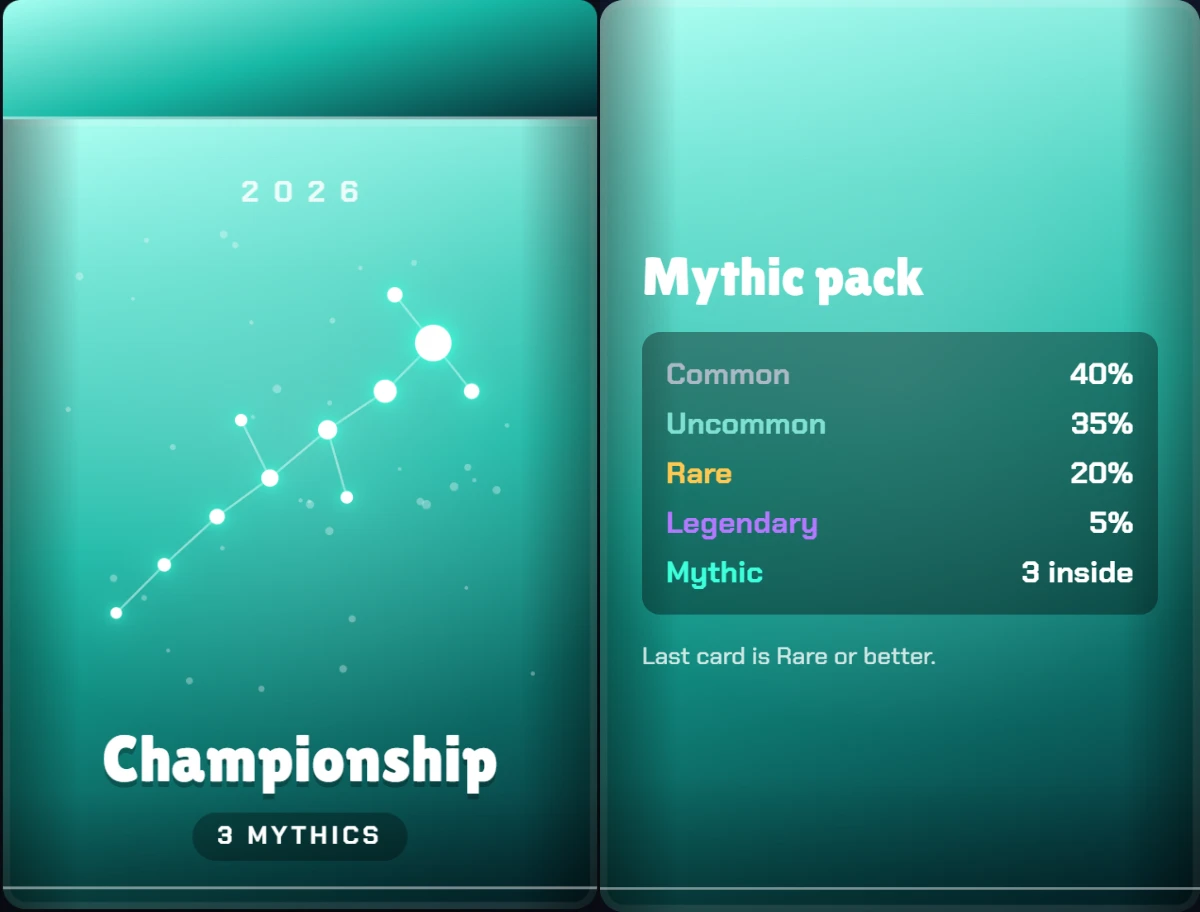
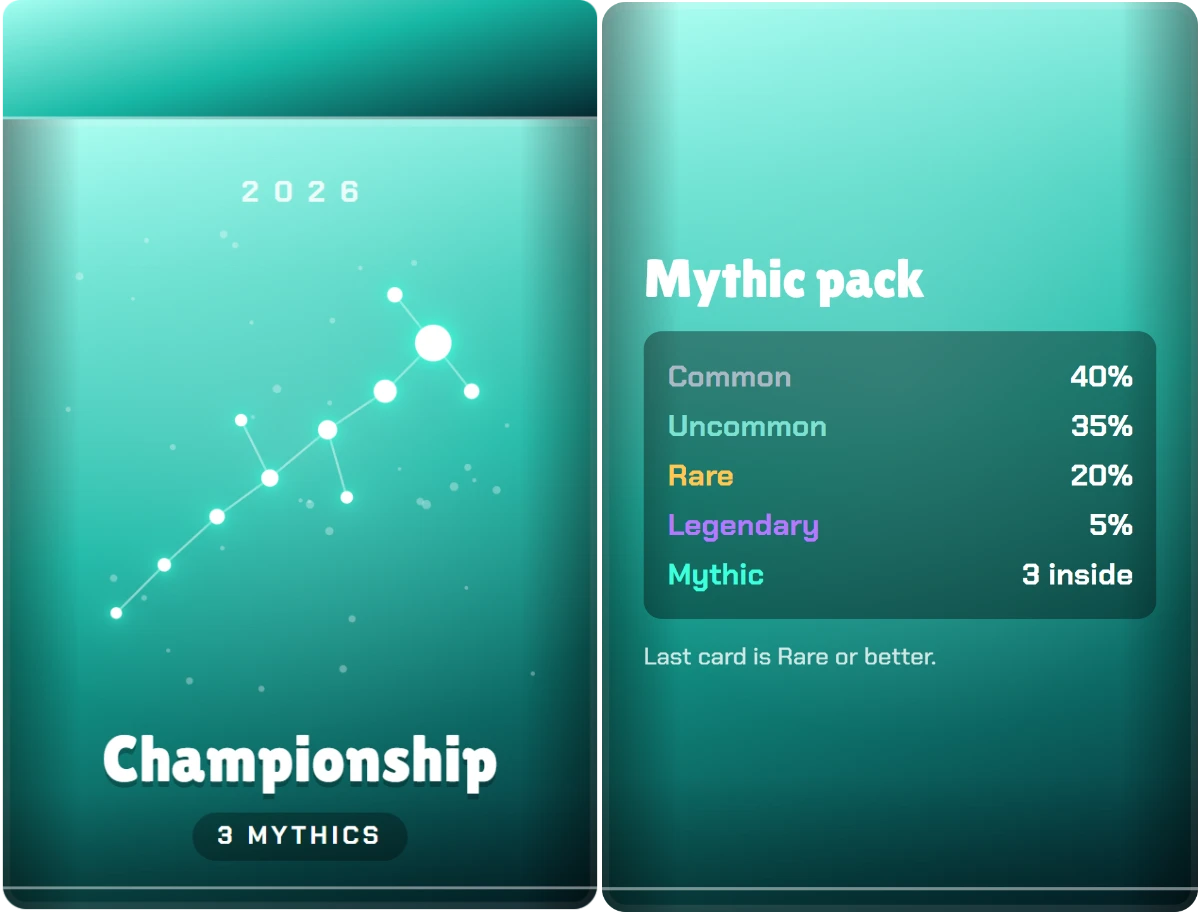
0.10.1: the light, solid packs, clean corners and tags on top
- The light from the tear (and the flip bursts) were drawn as color with no alpha, which a see-through canvas may not
  show (Safari drops color brighter than its alpha); now written with alpha at least as bright, and stronger.
- The WebGL pack was two pictures with layers between them below the strip, and the strip was drawn from both sides,
  so turned sideways it came apart and the strip stuck out from behind. It's now a pouch with one rounded wall all the
  way round; the strip shows only from the front; the back's inside shows through the opening once it's torn.
- Square corners: the pack pictures had the page's background (and the pack's outer shadow) in the corners outside
  the rounded edge, and the card pictures had the cards' outer shadows there; the pack tool now hides everything else
  and keeps only inset shadows, and card pictures keep only inset shadows (WebGL draws the shadows). This was also the
  foggy edge on glowing cards.
- NEW and COPY tags in the pull belonged to their cards, so the next card covered them; they're now one layer over
  the whole hand, and their pictures are made while the pack is in hand so they're drawn on top at once. Cards that
  have left the page no longer scramble the painting order.
- Closing the opening no longer throws on the pack's walls (a mesh with two materials).

diff --git a/web/src/site/gl/pack.ts b/web/src/site/gl/pack.ts
@@ -13,8 +13,8 @@
 // Only loaded when a pack is opened (open.tsx imports it on demand), and only used where WebGL works and motion isn't
 // reduced. It draws only while something moves: nothing runs while the pack sits in your hand.
 import {
-  BufferAttribute, BufferGeometry, CanvasTexture, CustomBlending, DoubleSide, Group, LinearFilter, Mesh, OneFactor, PerspectiveCamera,
-  PlaneGeometry, Points, Scene, ShaderMaterial, type Texture, TextureLoader, WebGLRenderer,
+  BufferAttribute, BufferGeometry, CanvasTexture, CustomBlending, DoubleSide, ExtrudeGeometry, Group, LinearFilter, Mesh, OneFactor,
+  PerspectiveCamera, PlaneGeometry, Points, Scene, Shape, ShaderMaterial, type Texture, TextureLoader, WebGLRenderer,
 } from "three";
 import { wrapper } from "../rip";
 import { snap } from "./faces";
@@ -35,6 +35,9 @@ const rgb = (hex: string): [number, number, number] => {
   return [((n >> 16) & 255) / 255, ((n >> 8) & 255) / 255, (n & 255) / 255];
 };
 const vec3 = (c: [number, number, number]) => `vec3(${c.map((x) => x.toFixed(4)).join(", ")})`;
+/** Light added over what's behind it. Written with alpha at least as bright as the color, the form a see-through
+    canvas must hold for every browser to show it (Safari drops color brighter than its alpha). */
+const LIGHT = `vec4(c, max(c.r, max(c.g, c.b)))`;
 
 /** CSS cubic-bezier timing, so the WebGL pack moves like the CSS one did. */
 function bezier(x1: number, y1: number, x2: number, y2: number) {
@@ -134,14 +137,15 @@ export function createPackGL(canvas: HTMLCanvasElement, host: HTMLElement): Pack
     pw: { value: 1 }, ph: { value: 1 }, edge: { value: [0, 0, 0] }, hint: { value: 0 },
   };
   // The faces: the picture of the front (left half) or the back (right half), with the pack's moving sheen on the front.
-  const face = (u0: number, v0: number, v1: number, sheen: boolean) => new ShaderMaterial({
-    uniforms: u, transparent: true,
+  const face = (u0: number, v0: number, v1: number, sheen: boolean, inside = false) => new ShaderMaterial({
+    uniforms: u, transparent: true, ...(inside && { side: DoubleSide }),
     vertexShader: VERT,
     fragmentShader: `uniform sampler2D map; uniform float fade; uniform float sheen; uniform float pw; uniform float ph; varying vec2 vUv;
       void main() {
         vec2 t = vec2(${u0.toFixed(2)} + vUv.x * 0.5, ${v0.toFixed(4)} + vUv.y * ${(v1 - v0).toFixed(4)});
         vec4 c = texture2D(map, t);
         if (c.a < 0.02) discard;
+        ${inside ? `if (!gl_FrontFacing) { gl_FragColor = vec4(vec3(0.44, 0.48, 0.56), c.a * fade); return; }` : ""}
         ${sheen ? `// .op-psheen: a soft band at 105deg, 220% of the pack wide, sliding as the pack turns.
         vec2 p = vec2(vUv.x, t.y);
         float d = (p.x - 0.5) * pw + (p.y - 0.5) * ph * 0.268 - sheen * pw * 2.2 / 100.0;
@@ -150,23 +154,19 @@ export function createPackGL(canvas: HTMLCanvasElement, host: HTMLElement): Pack
       }`,
   });
   const body = new Mesh(new PlaneGeometry(1, 1), face(0, 0, 1 - SEAM, true));
-  const back = new Mesh(new PlaneGeometry(1, 1), face(0.5, 0, 1, false));
+  const back = new Mesh(new PlaneGeometry(1, 1), face(0.5, 0, 1, false, true));
   back.rotation.y = Math.PI;
-  // Edges: layers of the wrapper's dark color between the faces, below the strip (like .op-pedge).
-  const edgeMat = new ShaderMaterial({
-    uniforms: u, transparent: true, vertexShader: VERT,
-    fragmentShader: `uniform vec3 edge; uniform float fade; uniform float pw; uniform float ph; varying vec2 vUv;
-      void main() {
-        // Square at the top, rounded at the bottom corners like the pack.
-        vec2 p = vec2((vUv.x - 0.5) * pw * 0.992, vUv.y * ph * 0.872);
-        float r = pw * 0.04;
-        vec2 q = vec2(abs(p.x) - (pw * 0.496 - r), r - p.y);
-        if (q.x > 0.0 && q.y > 0.0 && length(q) > r) discard;
-        gl_FragColor = vec4(edge, fade);
-      }`,
+  // Its sides: one rounded wall all the way round between the two faces, in the wrapper's dark color, lit a little by
+  // which way it faces, so the pack is a solid pouch from any angle. Only the walls: the faces are the pictures.
+  const wallMat = new ShaderMaterial({
+    uniforms: u, transparent: true,
+    vertexShader: `varying float vLit; void main() { vec3 n = normalize(normalMatrix * normal); vLit = 0.55 + 0.45 * abs(n.z) + 0.25 * max(0.0, n.y);
+      gl_Position = projectionMatrix * modelViewMatrix * vec4(position, 1.0); }`,
+    fragmentShader: `uniform vec3 edge; uniform float fade; varying float vLit; void main() { gl_FragColor = vec4(edge * vLit + 0.04, fade); }`,
   });
-  const edges = Array.from({ length: 7 }, () => new Mesh(new PlaneGeometry(1, 1), edgeMat));
-  // The strip: a band of points along the seam, bent each frame from the wrapper's chain. Its inside is foil-grey.
+  const noCaps = new ShaderMaterial({ visible: false });
+  const walls = new Mesh(new BufferGeometry(), [noCaps, wallMat]);
+  // The strip: a band of points along the seam, bent each frame from the wrapper's chain.
   const R = 3, wrap = wrapper(false), n = wrap.n;
   const sGeo = new BufferGeometry(), sPos = new Float32Array((n + 1) * (R + 1) * 3), sUv = new Float32Array((n + 1) * (R + 1) * 2), sShade = new Float32Array((n + 1) * (R + 1)), sFold = new Float32Array((n + 1) * (R + 1));
   const idx: number[] = [];
@@ -182,15 +182,15 @@ export function createPackGL(canvas: HTMLCanvasElement, host: HTMLElement): Pack
   sGeo.setIndex(idx);
   const sfade = { value: 1 };
   const strip = new Mesh(sGeo, new ShaderMaterial({
-    uniforms: { ...u, sfade }, transparent: true, side: DoubleSide,
+    uniforms: { ...u, sfade }, transparent: true,
     vertexShader: `attribute float shade; attribute float fold; varying vec2 vUv; varying float vShade; varying float vFold;
       void main() { vUv = uv; vShade = shade; vFold = fold; gl_Position = projectionMatrix * modelViewMatrix * vec4(position, 1.0); }`,
-    // Foil: where the peeled strip turns to the light it glints, broken up by its crinkles; inside it's bare metal.
+    // Foil: where the peeled strip turns to the light it glints, broken up by its crinkles.
     fragmentShader: `uniform sampler2D map; uniform float fade; uniform float sfade; varying vec2 vUv; varying float vShade; varying float vFold;
       void main() {
         vec4 c = texture2D(map, vUv);
         if (c.a < 0.02) discard;
-        vec3 col = gl_FrontFacing ? c.rgb * vShade : vec3(0.72, 0.78, 0.86) * vShade;
+        vec3 col = c.rgb * vShade;
         float grain = 0.55 + 0.45 * fract(sin(floor(vUv.x * 180.0) * 91.3 + floor(vUv.y * 40.0) * 17.1) * 437.5);
         float glint = pow(max(0.0, cos(vFold - 0.6)), 16.0) * step(0.05, vFold);
         col += vec3(0.95, 0.98, 1.0) * glint * grain * 0.6;
@@ -209,12 +209,13 @@ export function createPackGL(canvas: HTMLCanvasElement, host: HTMLElement): Pack
         float x = vUv.x * pw * 1.2 - pw * 0.1, y = vUv.y * ph * 0.42;
         float open = smoothstep(x0 - 4.0, x0 + 8.0, x) * (1.0 - smoothstep(x1 - 8.0, x1 + 4.0, x)) * smoothstep(-6.0, 6.0, x) * (1.0 - smoothstep(pw - 6.0, pw + 6.0, x));
         float v = vUv.y;
-        float rise = pow(1.0 - min(1.0, v / 0.72), 2.2) * 0.9;
+        float rise = pow(1.0 - min(1.0, v / 0.8), 1.8) * 1.1;
         float lean = (x - (x0 + x1) * 0.5) * 0.25 * v;
-        float rays = pow(0.5 + 0.5 * cos((x - lean) / 26.0 * 6.2832), 5.0) * (1.0 - v) * 0.45;
+        float rays = pow(0.5 + 0.5 * cos((x - lean) / 26.0 * 6.2832), 5.0) * (1.0 - v) * 0.7;
         float edge = exp(-y * 0.45) * 1.5;
-        float a = clamp(light * fade * open * (rise + rays + edge), 0.0, 1.6);
-        gl_FragColor = vec4(color * a, 0.0);
+        float a = clamp(light * fade * open * (rise + rays + edge), 0.0, 2.0);
+        vec3 c = color * a;
+        gl_FragColor = ${LIGHT};
       }`,
   }));
   // "Cut here": the dashed line and scissors of .op-cutzone, drawn once on a canvas.
@@ -236,7 +237,7 @@ export function createPackGL(canvas: HTMLCanvasElement, host: HTMLElement): Pack
         gl_FragColor = vec4(0.0, 0.0, 0.0, 0.55 * fade * (1.0 - smoothstep(-25.0, 25.0, d)));
       }`,
   }));
-  turner.add(body, back, ...edges, glow, stripBox, hintMesh);
+  turner.add(body, back, walls, glow, stripBox, hintMesh);
   root.add(shadow);
   shadow.renderOrder = -1;
   glow.renderOrder = 2;
@@ -252,7 +253,12 @@ export function createPackGL(canvas: HTMLCanvasElement, host: HTMLElement): Pack
     const T = PW * PTH, HB = PH * (1 - SEAM), seamY = PH / 2 - PH * SEAM;
     body.scale.set(PW, HB, 1); body.position.set(0, -PH / 2 + HB / 2, T);
     back.scale.set(PW, PH, 1); back.position.set(0, 0, -T);
-    edges.forEach((e, i) => { e.scale.set(PW * 0.992, PH * 0.872, 1); e.position.set(0, -PH / 2 + PH * 0.437, (T * (i - 3)) / 4); });
+    const cr = PW * 0.035, ex = PW / 2 - 0.5, ey = PH / 2 - 0.5, sh = new Shape();
+    sh.moveTo(-ex + cr, -ey); sh.lineTo(ex - cr, -ey); sh.quadraticCurveTo(ex, -ey, ex, -ey + cr); sh.lineTo(ex, ey - cr); sh.quadraticCurveTo(ex, ey, ex - cr, ey);
+    sh.lineTo(-ex + cr, ey); sh.quadraticCurveTo(-ex, ey, -ex, ey - cr); sh.lineTo(-ex, -ey + cr); sh.quadraticCurveTo(-ex, -ey, -ex + cr, -ey);
+    walls.geometry.dispose();
+    walls.geometry = new ExtrudeGeometry(sh, { depth: T * 1.96, bevelEnabled: false, curveSegments: 6 });
+    walls.position.set(0, 0, -T * 0.98);
     glow.scale.set(PW * 1.2, PH * 0.42, 1); glow.position.set(0, seamY + PH * 0.21, 0);
     shadow.scale.set(PW + 100, PH + 100, 1); shadow.position.set(0, -24 - (PH * SEAM) / 2, -T * 2);
     // The hint, at the CSS's place: 6% in from each side, from 7% to 17% down.
@@ -322,7 +328,7 @@ export function createPackGL(canvas: HTMLCanvasElement, host: HTMLElement): Pack
     uniforms: { k: { value: 0 } }, transparent: true, depthWrite: false, depthTest: false, blending: CustomBlending, blendSrc: OneFactor, blendDst: OneFactor,
     vertexShader: VERT,
     fragmentShader: `uniform float k; varying vec2 vUv;
-      void main() { float d = length(vUv - 0.5) * 2.0; float a = (1.0 - k) * (exp(-d * d * 6.0) * 0.9 + exp(-d * d * 40.0) * 0.8); gl_FragColor = vec4(mix(${vec3(col)}, vec3(1.0), 0.35) * a, 0.0); }`,
+      void main() { float d = length(vUv - 0.5) * 2.0; float a = (1.0 - k) * (exp(-d * d * 6.0) * 0.9 + exp(-d * d * 40.0) * 0.8); vec3 c = mix(${vec3(col)}, vec3(1.0), 0.35) * a; gl_FragColor = ${LIGHT}; }`,
   });
   const sparks: { p: Points; t0: number }[] = [];
   const sparkPoints = (col: [number, number, number], size: number) => {
@@ -336,7 +342,7 @@ export function createPackGL(canvas: HTMLCanvasElement, host: HTMLElement): Pack
       vertexShader: `attribute vec3 dir; uniform float t; uniform float size; uniform float px; varying float vA;
         void main() { vec3 p = dir * (1.0 - pow(1.0 - t, 3.0)) * size; p.y -= t * t * size * 0.3; vA = (1.0 - t) * step(0.001, t);
           gl_PointSize = (3.0 + 4.0 * (1.0 - t)) * px; gl_Position = projectionMatrix * modelViewMatrix * vec4(p, 1.0); }`,
-      fragmentShader: `varying float vA; void main() { float d = length(gl_PointCoord - 0.5); float a = vA * smoothstep(0.5, 0.1, d); gl_FragColor = vec4(mix(${vec3(col)}, vec3(1.0), 0.4) * a, 0.0); }`,
+      fragmentShader: `varying float vA; void main() { float d = length(gl_PointCoord - 0.5); float a = vA * smoothstep(0.5, 0.1, d); vec3 c = mix(${vec3(col)}, vec3(1.0), 0.4) * a; gl_FragColor = ${LIGHT}; }`,
     }));
   };
 
@@ -404,7 +410,9 @@ export function createPackGL(canvas: HTMLCanvasElement, host: HTMLElement): Pack
     mesh.visible = shadow.visible = false;
     scene.add(shadow, mesh);
     mirrors.set(el, { el, key, chain, mesh, shadow, u: mu, shown: false, calm: false });
-    // Painted in page order, like the DOM: later on top. All of them under the pack.
+    // Painted in page order, like the DOM: later on top. All of them under the pack. Cards that have left the page go
+    // first (they have no order to compare).
+    for (const m of [...mirrors.values()]) if (!m.el.isConnected) dropMirror(m);
     [...mirrors.values()].sort((a, b) => (a.el.compareDocumentPosition(b.el) & Node.DOCUMENT_POSITION_FOLLOWING ? -1 : 1))
       .forEach((m, i) => { m.shadow.renderOrder = -1000 + i * 2; m.mesh.renderOrder = -999 + i * 2; });
     trim();
@@ -534,7 +542,7 @@ export function createPackGL(canvas: HTMLCanvasElement, host: HTMLElement): Pack
     },
     tear(len, dir, light, color) {
       wrap.set(len, dir);
-      u.light.value = light > 0 ? 0.35 + light * 0.75 : 0;
+      u.light.value = light > 0 ? 0.6 + light * 1.1 : 0;
       u.color.value = rgb(color);
       opening();
       settling = true;
@@ -614,7 +622,7 @@ export function createPackGL(canvas: HTMLCanvasElement, host: HTMLElement): Pack
       for (const p of cardPics.values()) p.then((t) => t?.dispose());
       removeEventListener("resize", resize);
       for (const f of flares) (f.m.material as ShaderMaterial).dispose();
-      scene.traverse((o) => { if (o instanceof Mesh || o instanceof Points) { o.geometry.dispose(); (o.material as ShaderMaterial).dispose(); } });
+      scene.traverse((o) => { if (o instanceof Mesh || o instanceof Points) { o.geometry.dispose(); for (const m of [o.material].flat()) m.dispose(); } });
       hintTex.dispose(); plane.dispose();
       for (const p of pics.values()) p.then((t) => t.dispose(), () => {});
       renderer.dispose();

diff --git a/web/src/site/screens/open.tsx b/web/src/site/screens/open.tsx
@@ -625,7 +625,7 @@ function Flow({ resume }: { resume?: Opening }) {
   useLayoutEffect(() => {
     if (phase !== "summary" || !sumEl.current) return;
     // The cards come up into their places in the fan one after another, each with a soft snap, the best one last.
-    const kids = [...sumEl.current.children] as HTMLElement[];
+    const kids = [...sumEl.current.querySelectorAll<HTMLElement>(":scope > .op-sc")];
     if (!RM) {
       sumEl.current.previousElementSibling?.animate([{ opacity: 0, transform: "translateY(8px)" }, { opacity: 1, transform: "none" }], { duration: 320, easing: "ease-out", fill: "backwards" });
       kids.forEach((el, i) => {
@@ -725,11 +725,13 @@ function Flow({ resume }: { resume?: Opening }) {
             <div ref={sumEl} class="op-sum-cards">
               {deck.map((c, i) => (
                 <button type="button" class={cx("op-sc", i === 4 && faceDown(c.tier) && "op-best")} style={{ "--i": i - 2, "--tc": TIERS[c.tier].color }} data-glk={`${c.num}-${c.test ? "TEST" : c.serial}`}
-                  onClick={() => { if (!c.test) openCard(c.num); }} aria-label={`${BY_NUM.get(c.num)!.name}, ${TIERS[c.tier].label}`}>
-                  <Card num={c.num} serial={c.test ? "TEST" : c.serial} w="var(--op-sw)">
-                    <span class={cx("op-ribbon", !c.isNew && "op-dupe")}>{c.test ? "TEST" : c.isNew ? "NEW" : `COPY #${c.copy}`}</span>
-                  </Card>
+                  onClick={() => { if (!c.test) openCard(c.num); }} aria-label={`${BY_NUM.get(c.num)!.name}, ${TIERS[c.tier].label}, ${tag(c).toLowerCase()}`}>
+                  <Card num={c.num} serial={c.test ? "TEST" : c.serial} w="var(--op-sw)" />
                 </button>
+              ))}
+              {/* The NEW and COPY tags over the whole hand, each where its card is, so the next card never covers one. */}
+              {deck.map((c, i) => (
+                <span class="op-tag" style={{ "--i": i - 2 }} aria-hidden="true"><span class={cx("op-ribbon", !c.isNew && "op-dupe")}>{tag(c)}</span></span>
               ))}
             </div>
           </div>
@@ -775,17 +777,22 @@ function pictured(root: HTMLElement): [HTMLElement, string][] {
   return els;
 }
 
-/** The pack in hand's cards, as the stack will show them, out of sight: their pictures for the WebGL opening are
-    made from these while you hold the pack (the top card first), so the cards that rise out are ready. */
+/** The pack in hand's cards, as the stack will show them, and their tags as the summary will, out of sight: their
+    pictures for the WebGL opening are made from these while you hold the pack (the top card first), so everything
+    that rises out, and the summary after, is ready. */
 function Bake({ cards, gl, w }: { cards: Deal[]; gl: PackGL; w: string }) {
   const el = useRef<HTMLDivElement>(null);
   useLayoutEffect(() => { gl.prebake(pictured(el.current!)); }, [cards, gl]);
   return (
     <div ref={el} class="op-bake" aria-hidden="true">
       {cards.map((c) => <StackCard c={c} k={0} up flipped={false} promo={false} charging={false} aura={false} w={w} />)}
+      {cards.map((c) => <span class="op-tag" style={{ "--i": 0 }}><span class={cx("op-ribbon", !c.isNew && "op-dupe")}>{tag(c)}</span></span>)}
     </div>
   );
 }
+
+/** A card's tag: NEW, or which copy of the team it is. */
+const tag = (c: Deal) => (c.test ? "TEST" : c.isNew ? "NEW" : `COPY #${c.copy}`);
 
 function StackCard({ c, k, up, flipped, promo, charging, aura, gone, w }: { c: Deal; k: number; up: boolean; flipped: boolean; promo: boolean; charging: boolean; aura: boolean; gone?: number; w: string }) {
   const t = BY_NUM.get(c.num)!;
@@ -802,7 +809,7 @@ function StackCard({ c, k, up, flipped, promo, charging, aura, gone, w }: { c: D
           <Face t={t} tier={c.tier} serial={c.test ? "TEST" : c.serial} />
         </div>
       </div>
-      {up && (k === 0 || gone !== undefined) && <span class={cx("op-ribbon", !c.isNew && "op-dupe")}>{c.test ? "TEST" : c.isNew ? "NEW" : `COPY #${c.copy}`}</span>}
+      {up && (k === 0 || gone !== undefined) && <span class={cx("op-ribbon", !c.isNew && "op-dupe")}>{tag(c)}</span>}
     </div>
   );
 }

diff --git a/web/src/site/open.css b/web/src/site/open.css
@@ -196,10 +196,12 @@
 .op-sum-h span { color: var(--dim); font-size: 13px; }
 /* The pull, fanned out like a hand: overlapping along an arc, the best card last and on top. Tap one to see it. */
 .op-sum-cards { --step: min(calc(var(--op-sw) * .62), calc((100vw - 84px - var(--op-sw)) / 4)); /* room for the end cards' tilt and ribbons */ position: relative; width: calc(var(--op-sw) + var(--step) * 4); max-width: 100%; height: calc(var(--op-sw) * 1.4 + 30px); }
-.op-sc { position: absolute; left: calc(50% - var(--op-sw) / 2 + var(--i) * var(--step)); top: calc(var(--i) * var(--i) * 5px); padding: 0; border: 0; border-radius: 8px; background: none; color: inherit; cursor: pointer;
-  transform: rotate(calc(var(--i) * 3deg)); transform-origin: 50% 100%; }
+.op-sc, .op-tag { position: absolute; left: calc(50% - var(--op-sw) / 2 + var(--i) * var(--step)); top: calc(var(--i) * var(--i) * 5px); transform: rotate(calc(var(--i) * 3deg)); transform-origin: 50% 100%; }
+.op-sc { padding: 0; border: 0; border-radius: 8px; background: none; color: inherit; cursor: pointer; }
+/* The tags sit over the whole hand (after every card), each at its card's place. */
+.op-tag { --cw: var(--op-sw); width: var(--op-sw); aspect-ratio: 5 / 7; pointer-events: none; }
 .op-sc:active > * { transform: scale(.97); }
-.op-sc .op-ribbon { animation-delay: .5s; }
+.op-tag .op-ribbon { animation-delay: .5s; }
 .op-sc.op-best::before { content: ""; position: absolute; inset: 0; border-radius: calc(var(--op-sw) * .055); box-shadow: 0 0 0 2px var(--tc), 0 0 26px 2px var(--tc); pointer-events: none; }
 .op-sum-b { width: min(100%, 420px); }
 

diff --git a/web/src/site/gl/faces.ts b/web/src/site/gl/faces.ts
@@ -20,12 +20,19 @@ const fonts = () => (fontCss ??= Promise.all([lilita, chakra500, chakra600, chak
   `@font-face{font-family:"Lilita One";font-weight:400;src:url(${l}) format("woff2")}` +
   [[500, a], [600, b], [700, c]].map(([w, d]) => `@font-face{font-family:"Chakra Petch";font-weight:${w};src:url(${d}) format("woff2")}`).join("")));
 
+/** A box-shadow without its outer shadows: those fall outside the element, and in a picture of just the element they'd
+    only darken the corners outside its rounded edge. WebGL draws the shadow itself. */
+export const insetOnly = (shadow: string) => (shadow.split(/,(?![^(]*\))/).filter((x) => x.includes("inset")).join(",") || "none");
+
 /** A picture of `el` as it lies flat (its own transform left off: WebGL puts that back), at the screen's sharpness. */
 export async function snap(el: HTMLElement): Promise<HTMLCanvasElement> {
   const w = el.offsetWidth, h = el.offsetHeight;
   const cv = await toCanvas(el, {
     width: w, height: h, pixelRatio: Math.min(devicePixelRatio || 1, 2) * 1.25, fontEmbedCSS: await fonts(),
-    style: { transform: "none", left: "0", top: "0", right: "auto", bottom: "auto", margin: "0", visibility: "visible", animation: "none", transition: "none" },
+    style: {
+      transform: "none", left: "0", top: "0", right: "auto", bottom: "auto", margin: "0", visibility: "visible", animation: "none", transition: "none",
+      boxShadow: insetOnly(getComputedStyle(el).boxShadow),
+    },
   });
   cv.getContext("2d")!.getImageData(0, 0, 1, 1); // throws if the browser won't let us use the picture
   return cv;

diff --git a/web/src/site/notes.ts b/web/src/site/notes.ts
@@ -2,11 +2,22 @@
 // players should hear about: everyone who's played before sees the newest one once (screens/notes.tsx), and Settings
 // shows the version and every release. 0.x while in beta: the middle number for a weekly release, the last for the
 // feedback updates and fixes in between.
-export const VERSION = "0.10.0";
+export const VERSION = "0.10.1";
 
 export interface Release { v: string; date: string; title: string; items: string[] }
 
 export const NOTES: Release[] = [
+  {
+    v: "0.10.1",
+    date: "2026-10-29",
+    title: "Opening fixes",
+    items: [
+      "The light shows through the tear again, brighter.",
+      "The pack is solid from every angle when you turn it.",
+      "No more square shadows at the corners of cards and packs, or a foggy edge on glowing cards.",
+      "NEW and COPY tags sit on top of the cards in your pull.",
+    ],
+  },
   {
     v: "0.10.0",
     date: "2026-10-29",
